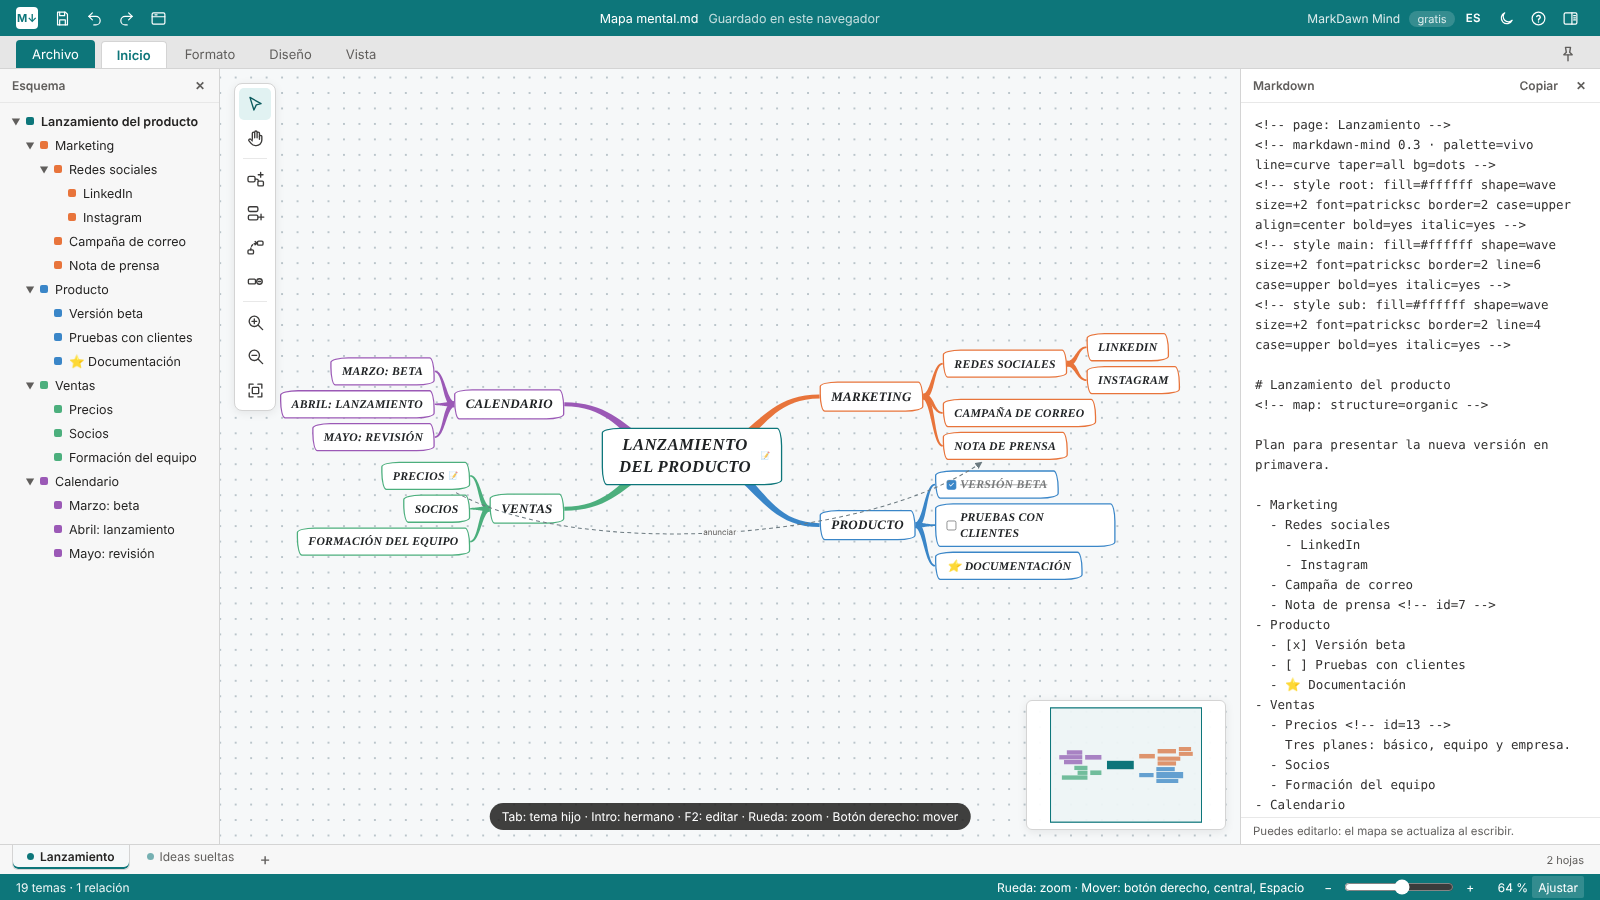
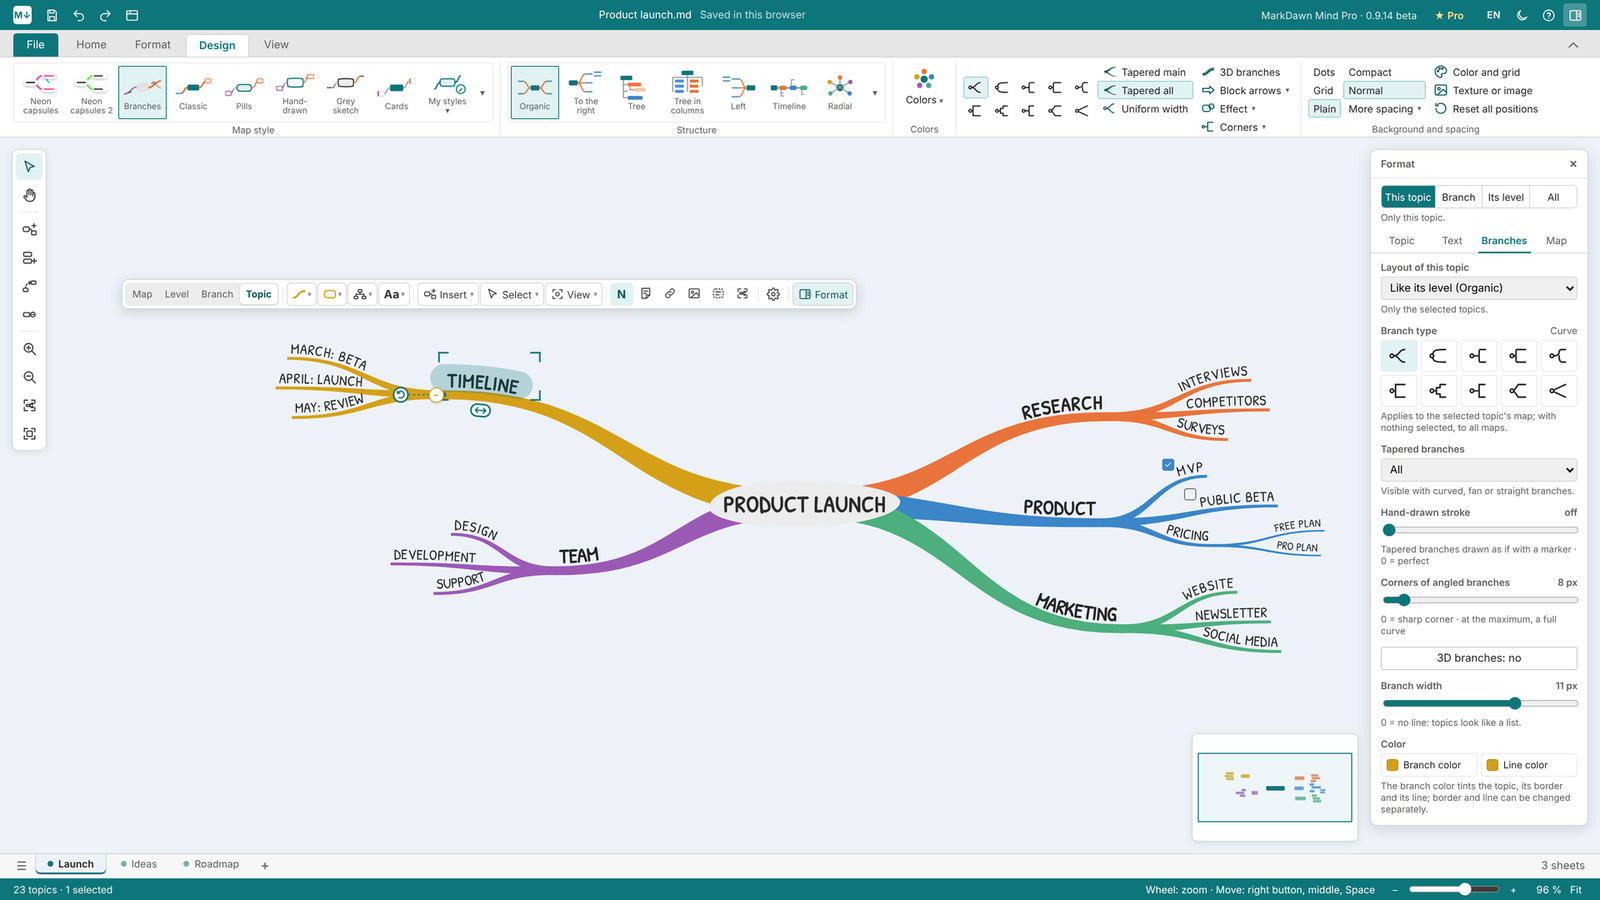
Add files via upload

Changed region(s): [[0.0, 0.0, 1.0, 1.0], [0.2812, 0.8711, 0.625, 0.9333], [0.1562, 0.2178, 0.1875, 0.2489]]

diff --git a/index.html b/index.html
@@ -117,7 +117,7 @@
 
     <article class="app mind">
       <div class="bar"></div>
-      <img src="mind-screenshot.png" alt="MarkDawn Mind: an organic mind map with tapered branches and its Markdown" data-es-alt="MarkDawn Mind: un mapa mental orgánico con ramas cónicas y su Markdown" width="1600" height="900">
+      <img src="mind-screenshot.png" alt="MarkDawn Mind: a mind map with hand-drawn branches, the floating toolbar and the Format pane" data-es-alt="MarkDawn Mind: un mapa mental con ramas dibujadas a mano, la barra emergente y el panel Formato" width="1600" height="900">
       <div class="body">
         <h2 data-es="MarkDawn Mind &lt;small&gt;Mapas mentales&lt;/small&gt;">MarkDawn Mind <small>Mind maps</small></h2>
         <p data-es="Crea mapas mentales con el teclado y guárdalos como una lista de Markdown que cualquier IA entiende.">Build mind maps with the keyboard and save them as a Markdown list any AI understands.</p>
